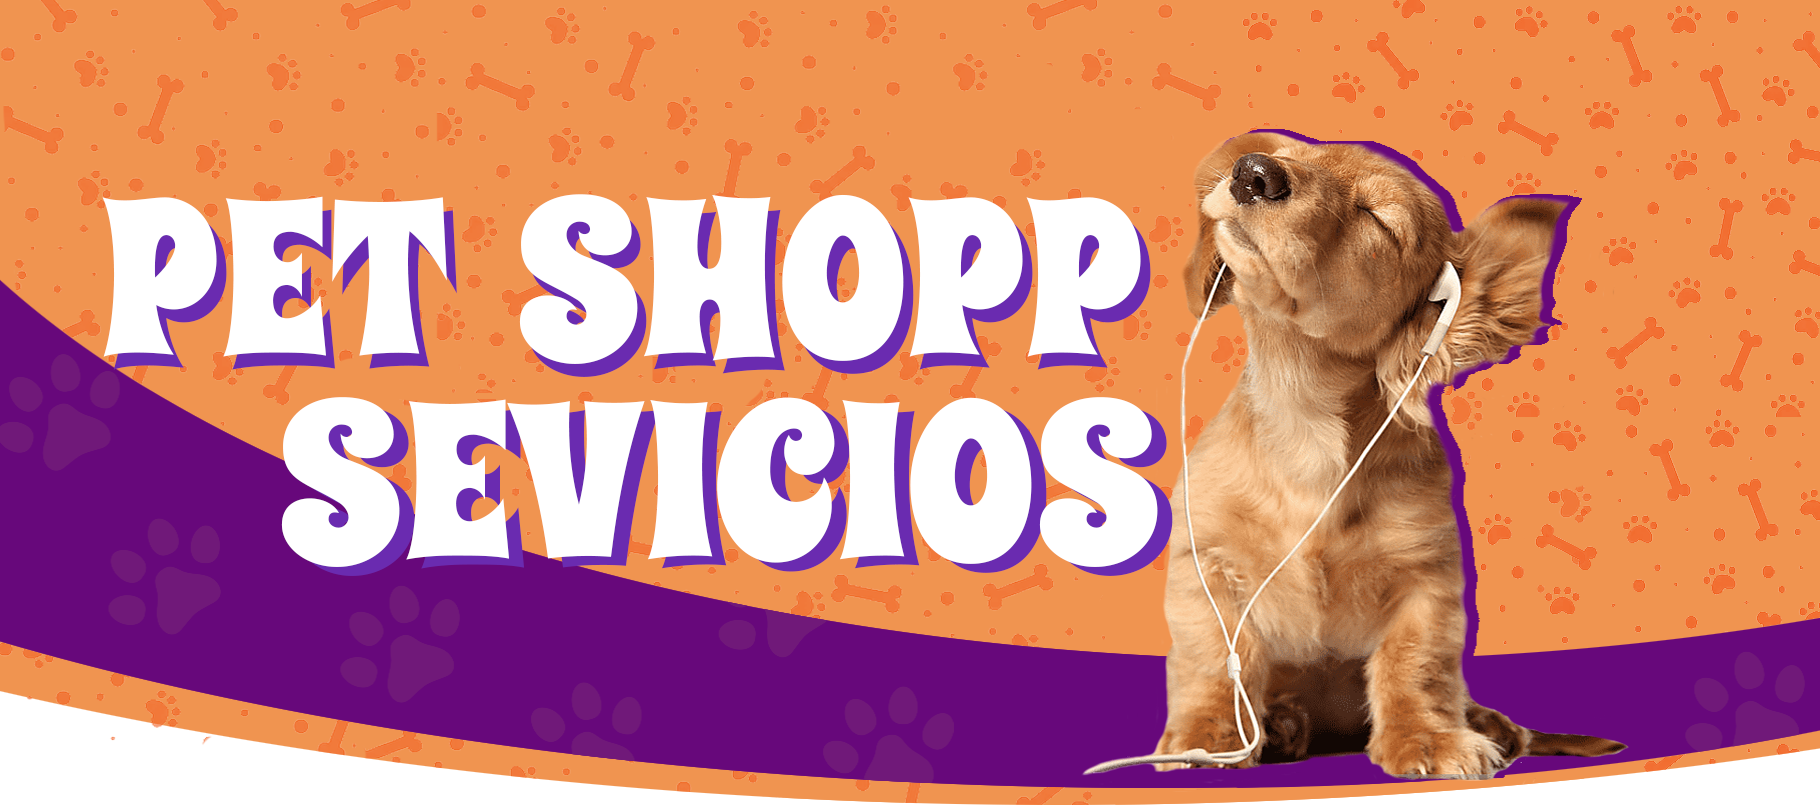
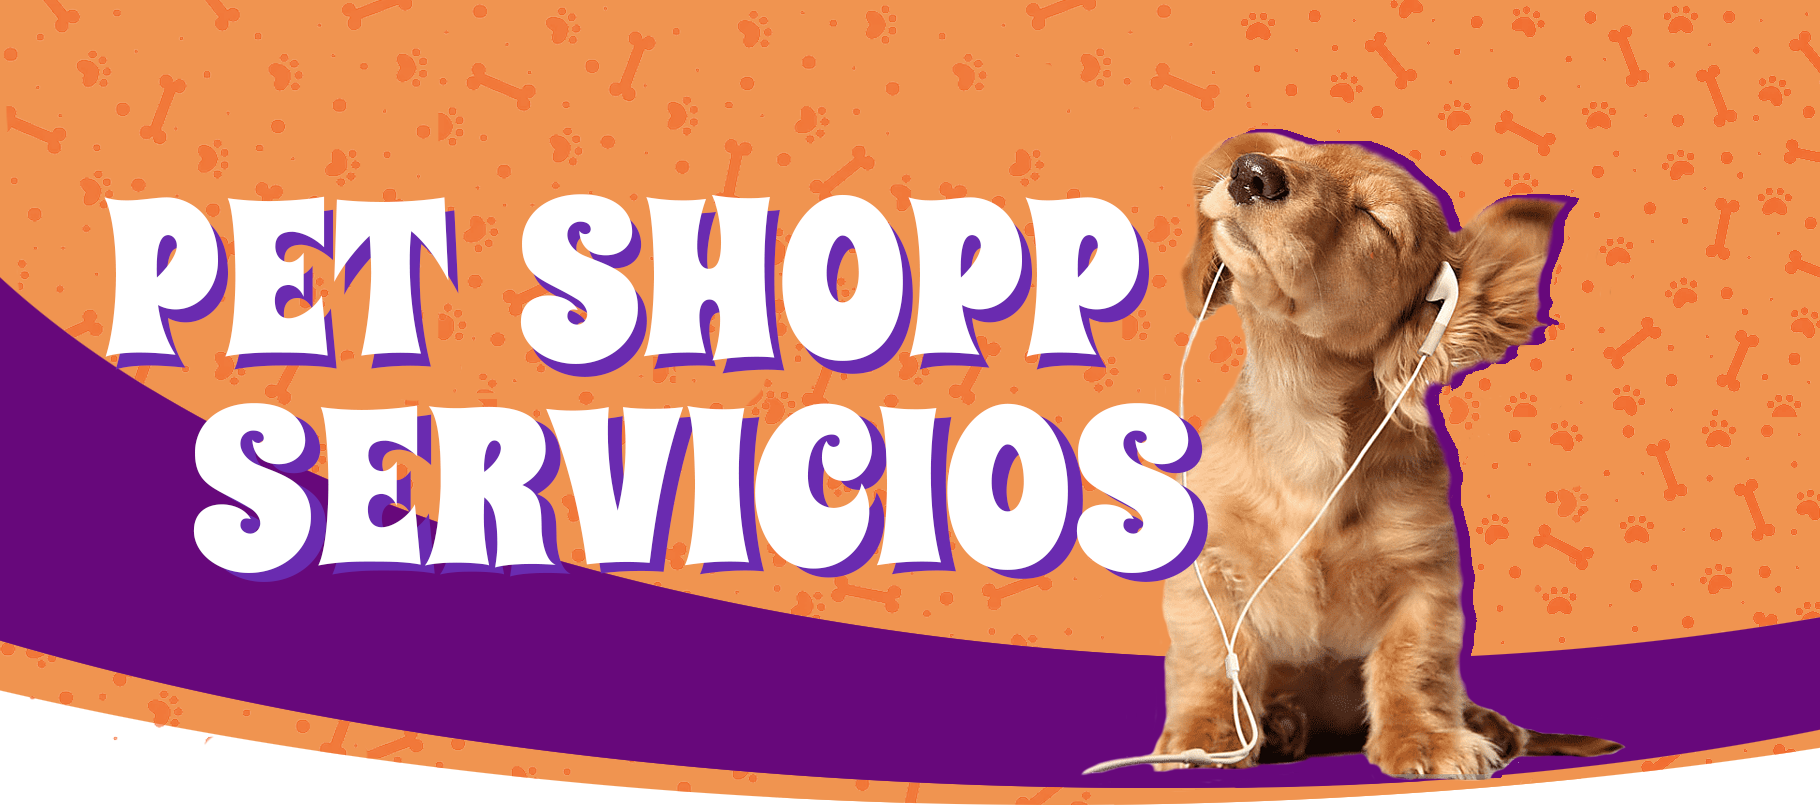
terminadouno

diff --git a/style.css b/style.css
@@ -99,7 +99,6 @@ body{
     background-color: #FFF0FB;
 }
 
-
 .navbar {
     background-color: #440351;
     width: 100%;
@@ -109,10 +108,13 @@ body{
     display: flex;
     flex-direction: row;
     flex-wrap: nowrap;
-}.logo{
+} .logo {
+    padding: 0px 20px;
+}
+.logo a img{
     padding: 15px;
     align-content: center;
-    width: 10%;
+    width: 50px;
     text-align: center;
 
 }.menu{
@@ -146,7 +148,7 @@ body{
 
 @media (max-width: 667px) {
     .header{
-        width: 385px;
+        width: 100%;
 
     }.navbar {
         width: 100%;
@@ -226,6 +228,10 @@ body{
 } .container {
     width: 100%;
     height: 1320px;
+}
+
+.banner-responsive{
+    display: none;
 }
 
 
@@ -325,37 +331,45 @@ body{
 /* responsive inicio */
 
 @media (max-width: 667px) {
+
     .main {
         width: 100%;
+
     } .main .container {
         width: 100%;
-        height: 700px;
+        height: 1815px;
         padding: 0;
         margin: 0;
+    }
+
+    .banner-desktop{
+        display: none;
+    }
+    .banner-responsive{
+        display:block;
+        width: 100%;
     }
 
     .main .container .categorias{
         width: 100%;
         padding: 0px;
         position: absolute;
-        top: 35%;
+        top: 54%;
         display: flex;
-        justify-content: space-around;
-        flex-direction: row;
-        flex-wrap: wrap;
+        margin: 0;
+        flex-direction: column;
     }
     .main .container .categorias a{
         padding: 2px;
         margin: 2px;
     }
     .main .container .categorias a img{
-        width: 140px;
-        height: 138px ;
+        width: 270px;
         margin: 0px;
         padding: 5px;
     }
 
-    .main .nosotros{
+    .nosotros{
         width: 100%;
         height: 500px;
         display: flex;
@@ -369,7 +383,7 @@ body{
         margin: auto;
     } .nosotros2 {
         display: none;
-    }
+    } 
 
     .main .info{
         width: 100%;
@@ -383,7 +397,6 @@ body{
 
 .container_productos{
     width: 70%;
-
     display: flex;
     flex-direction: column;
     text-align: center;
@@ -426,26 +439,26 @@ body{
 
 @media (max-width: 667px) {
     .container .banner img{
-        width: 375px;
+        width: 100%;
         margin: 60px 0px 0px;
     }
 
     .container_productos{
-        width: 375px;
+        width: 100%;
         display: flex;
         flex-direction: column;
         flex-wrap: wrap;
         text-align: center;
         margin: auto;
     } .productos_categorias{
-        width: 375px;
+        width: 100%px;
         display: flex;
         flex-wrap: wrap;
         text-align: center;
         padding: 30px 10px;
 
     } .productos_container {
-        width: 375px;
+        width: 100%;
         display: flex;
         flex-direction: row;
         flex-wrap: wrap;

diff --git a/index.html b/index.html
@@ -18,7 +18,7 @@
     <div class="header">
         <div class="navbar">
             <div class="logo">
-                <img src="../img/logo.png" width="50px" alt="logo" title="Pet Shop logo">
+                <a href="index.html"><img src="img/logo.png" width="50px" alt="logo" title="Inicio"></a> 
             </div>
             <button id="abrir" class="abrir_menu"><i class="bi bi-list"></i></button>
             <div class="menu" id="nav">
@@ -42,9 +42,9 @@
                 </ul>
             </div>
             <div class="rss">
-                <img src="../img/iconos/user.png" alt="usuario" title="Usuario" width="25px">
-                <img src="../img/iconos/fav.png" alt="favoitos" title="Favoritos" width="25px">
-                <img src="../img/iconos/carrito.png" alt="carrito de compras" title="Carrito de compras" width="28px">
+                <img src="img/iconos/user.png" alt="usuario" title="Usuario" width="25px">
+                <img src="img/iconos/fav.png" alt="favoitos" title="Favoritos" width="25px">
+                <img src="img/iconos/carrito.png" alt="carrito de compras" title="Carrito de compras" width="28px">
             </div>
     </div>
 </div>
@@ -53,7 +53,8 @@
 
     <div class="container">
         <div class="banner">
-            <img  data-aos="fade-down" src="img/header.png" alt="Pet Shopp BA" title="Per Shopp BA" width="100%">
+            <img class="banner-desktop" data-aos="fade-down" src="img/header.png" alt="Pet Shopp BA" title="Per Shopp BA" width="100%">
+            <img class="banner-responsive" data-aos="fade-down" src="img/banner-responsive.png" alt="Pet Shopp BA" title="Per Shopp BA" width="100%">
         </div>
 
         <div class="categorias">

diff --git a/pages/contacto.html b/pages/contacto.html
@@ -18,11 +18,10 @@
     <div class="header">
         <div class="navbar">
             <div class="logo">
-                <img src="../img/logo.png" width="50px" alt="logo" title="Pet Shop logo">
+                <a href="../index.html"><img src="../img/logo.png" width="50px" alt="logo" title="Inicio"></a> 
             </div>
             <button id="abrir" class="abrir_menu"><i class="bi bi-list"></i></button>
             <div class="menu" id="nav">
-                <button id="cerrar" class="cerrar_menu"><i class="bi bi-x-lg"></i></button>
                 <ul class="nav-ul">
                     <li>
                         <a class="nav-link" href="../index.html"> INICIO </a>
@@ -39,6 +38,7 @@
                     <li>
                         <a class="nav-link" href="../pages/contacto.html"> CONTACTO </a>
                     </li>
+                    <button id="cerrar" class="cerrar_menu"><i class="bi bi-x-lg"></i></button>
                 </ul>
             </div>
             <div class="rss">
@@ -53,7 +53,8 @@
 <div class="main">
     <div class="contacto_main">
         <div class="banner">
-            <img data-aos="fade-down" src="../img/b__contacto.png" alt="Pet Shopp BA" title="Per Shopp BA" width="100%">
+            <img class="banner-desktop" data-aos="fade-down" src="../img/b__contacto.png" alt="Pet Shopp BA" title="Per Shopp BA" width="100%">
+            <img class="banner-responsive" data-aos="fade-down" src="../img/contacto-responsive.png" alt="Pet Shopp BA" title="Per Shopp BA" width="100%">
         </div>
         <h2>Contactanos</h2>
     </div>

diff --git a/pages/multimedia.html b/pages/multimedia.html
@@ -18,7 +18,7 @@
     <div class="header">
         <div class="navbar">
             <div class="logo">
-                <img src="../img/logo.png" width="50px" alt="logo" title="Pet Shop logo">
+                <a href="../index.html"><img src="../img/logo.png" width="50px" alt="logo" title="Inicio"></a> 
             </div>
             <button id="abrir" class="abrir_menu"><i class="bi bi-list"></i></button>
             <div class="menu" id="nav">
@@ -56,8 +56,8 @@
 <div class="main">
     <div class="multimedia_main">
         <div class="banner">
-            <img data-aos="fade-down" src="../img/b__contacto.png" alt="Pet Shopp BA" title="Per Shopp BA" width="100%">
-        </div>
+            <img class="banner-desktop" data-aos="fade-down" src="../img/b__contacto.png" alt="Pet Shopp BA" title="Per Shopp BA" width="100%">
+            <img class="banner-responsive" data-aos="fade-down" src="../img/contacto-responsive.png" alt="Pet Shopp BA" title="Per Shopp BA" width="100%">        </div>
 
         <div class="multimedia_container">
             <h2>Galeria Multimedia de Pet Shopp</h2>

diff --git a/pages/productos.html b/pages/productos.html
@@ -18,7 +18,7 @@
     <div class="header">
         <div class="navbar">
             <div class="logo">
-                <img src="../img/logo.png" width="50px" alt="logo" title="Pet Shop logo">
+                <a href="../index.html"><img src="../img/logo.png" width="50px" alt="logo" title="Inicio"></a> 
             </div>
             <button id="abrir" class="abrir_menu"><i class="bi bi-list"></i></button>
             <div class="menu" id="nav">
@@ -54,10 +54,10 @@
 </div>
 
 <div class="main">
-
     <div class="container">
         <div class="banner">
-            <img data-aos="fade-down"  src="../img/b_productos.png" alt="Pet Shopp BA" title="Per Shopp BA" width="100%">
+            <img class="banner-desktop" data-aos="fade-down" src="../img/b_productos.png" alt="Pet Shopp BA" title="Per Shopp BA" width="100%">
+            <img class="banner-responsive" data-aos="fade-down" src="../img/productos-responsive.png" alt="Pet Shopp BA" title="Per Shopp BA" width="100%">
         </div>
 
     <div class="container_productos">

diff --git a/pages/servicios.html b/pages/servicios.html
@@ -20,7 +20,7 @@
     <div class="header">
         <div class="navbar">
             <div class="logo">
-                <img src="../img/logo.png" width="50px" alt="logo" title="Pet Shop logo">
+                <a href="../index.html"><img src="../img/logo.png" width="50px" alt="logo" title="Inicio"></a> 
             </div>
             <button id="abrir" class="abrir_menu"><i class="bi bi-list"></i></button>
             <div class="menu" id="nav">
@@ -58,7 +58,8 @@
 <div class="main">
     <div class="container">
         <div class="banner">
-            <img data-aos="fade-down" src="../img/b_servicios.png" alt="Pet Shopp BA" title="Per Shopp BA" width="100%">
+            <img class="banner-desktop" data-aos="fade-down" src="../img/b_servicios.png" alt="Pet Shopp BA" title="Per Shopp BA" width="100%">
+            <img class="banner-responsive" data-aos="fade-down" src="../img/servicios_responsive.png" alt="Pet Shopp BA" title="Per Shopp BA" width="100%">
         </div>
 
     <div class="servicios_container">
